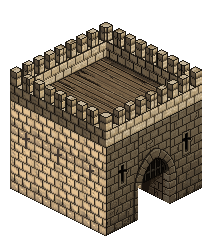
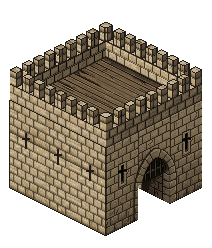
M7 part 2: turned gatehouse battlements drawn turned (owner's request)
The turned art mirrors and relights only the PixelLab body; battlements and the
repainted side are drawn by the model in the turned position, so their shade is on
the right side too.

Claude-Session: https://claude.ai/code/session_01Ves32CnPMRDjDAnPVyS3zS

Changed region(s): [[0.0283, 0.0847, 0.9623, 0.9597]]

diff --git a/docs/ART_SPEC.md b/docs/ART_SPEC.md
@@ -502,7 +502,7 @@ Przepływ pracy dla kolejnych partii budynków z PixelLab:
 
 - **Kamień murów z PixelLab (decyzja właściciela: grafika muru i bramy z początku projektu):** `tools/make_wall_skin.gd` wycina z przeróbki PixelLab prototypu (`src/prototype/walls/pixellab/repaint/`) próbki lica jasnego i ciemnego oraz korony (bez szwów) i ciało wieży bramnej do `assets/walls/stone/` (+ `skin.json`: początek i okres próbek, kolor blanek i obrysu). Gra rysuje mury kodem z tymi teksturami (`WallPieceNode`), jak prototyp.
 - **Budynki** `tools/render_fort_art.gd` (wymaga ekranu: `xvfb-run`): wieża bramna = ciało z PixelLab (prawe lico zamalowane kamieniem, bo przeróbka miała tam kawałek muru) + blanki modelu; baszta 2×2 o 48 px wyższa od muru (prośba właściciela: „troszkę wyższa”); etapy budowy: niższe ściany i rusztowanie; warsztat oblężniczy (wiata z belek, gonty, szkielet taranu, deski, drabina). Ikony narzędzi w `assets/walls/icons/`.
-- **Obrócona wieża bramna (prośba właściciela 2026-11-08):** lustrzane odbicie dawało cień po złej stronie. Gra używa grafiki `<nazwa>_turned` zamiast odbicia, gdy taka istnieje (`BuildingLayer.oriented_art`; mechanizm można dać później innym budynkom). Dla gotowej bramy narzędzie odbija obrazek i przemalowuje jasność zewnętrznych ścian według stosunku jasności lic z oryginału (szczegóły z PixelLab zostają), a etapy budowy rysuje od razu w obróconym ustawieniu.
+- **Obrócona wieża bramna (prośba właściciela 2026-11-08):** lustrzane odbicie dawało cień po złej stronie. Gra używa grafiki `<nazwa>_turned` zamiast odbicia, gdy taka istnieje (`BuildingLayer.oriented_art`; mechanizm można dać później innym budynkom). Dla gotowej bramy narzędzie odbija samą bryłę z PixelLab i przemalowuje jasność zewnętrznych ścian według stosunku jasności lic z oryginału (szczegóły z PixelLab zostają), a blanki rysuje od nowa w obróconym ustawieniu (poprawka 2026-11-08: odbite blanki miały cień po złej stronie); etapy budowy rysuje od razu obrócone.
 - **Kodem w widoku:** palisada (zaostrzone bale z wiązaniami, uszkodzona ma złamane bale), schody (stopnie i lity bok), pęknięcia na uszkodzonym murze, taran (buda ze skór na kołach, okuta kłoda, nogi 4 ludzi, proporzec: czerwony królestwa albo czarny bandytów), drabina oparta o mur, polegli (pierwsza klatka postaci położona, plama krwi), strzały w locie, paski życia.
 - **Postacie kodem** (`tools/generate_characters.gd`, `BANDITS`): bandyta (ciemny kaptur, przeszywanica, włócznia, tarcza w szarych barwach), bandyta z łukiem, drabiniarz (czerwona czapka, drabina na ramieniu). Barwy tarcz i proporców zależą od postaci (`royal`, `gold`).
 
